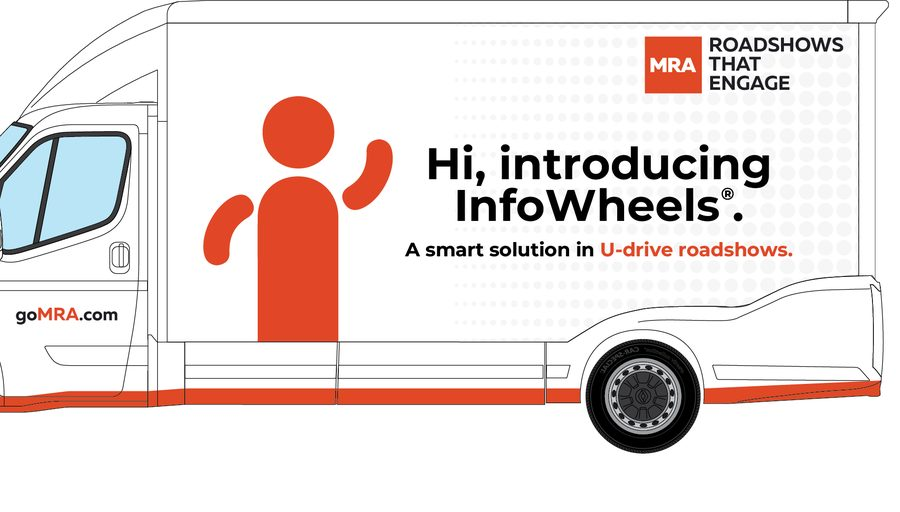
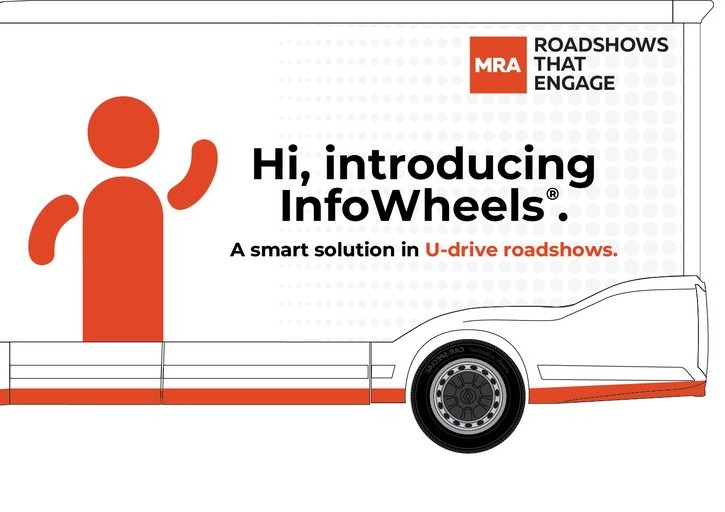
Fix two more real Builder decal bugs: mockup ghosting + wheel-arch smear/mirror
Rich caught both from his own phone testing after Rev 5.9 shipped:

1. MRA EM Summit and MRA AAM are full-vehicle wrap mockups (cab/wheels/
   windows drawn in as print-shop placement reference), not flat box-only
   graphics. Stretching the whole mockup onto just the body shell smeared
   a faint ghost of the cab/wheel reference art across the box. Cropped
   both source images down to just the box-panel region.

2. Separate bug: the wheel arch/rocker panel is molded into the same
   Shell mesh as the flat side wall but curves away underneath. The flat
   planar decal projection smeared photo content across that curve, and
   at the curve's underside some faces' normals tipped into the wrong
   projection axis entirely, producing mirrored/backwards fragments
   right at the wheel well (confirmed via backwards "SHOEBOX" text on
   the Lexcare decal, exactly matching Rich's circled screenshot). Real
   vehicle wraps don't wrap into the wheel well either, so the bottom
   ~22% of the panel's own height now always uses the plain, non-mirrored
   side formula pinned to the image's bottom edge, while the flat wall
   above still gets the full image, uncropped.

Verified on all 4 stock graphics, both the main panel and the wheel-arch
area specifically, before shipping.

diff --git a/builder/index.html b/builder/index.html
@@ -76,7 +76,7 @@ input[type=color].on{box-shadow:0 0 0 2px var(--orange)}
     <button id="linkBtnTop" class="btn-outline">Save &amp; Share</button>
     <a id="quoteBtn" class="btn-solid" href="mailto:rmiller@gomra.com?subject=InfoWheels%20quote%20request" target="_blank" rel="noopener">Request a Quote</a>
   </div>
-  <span class="rev" id="devRev" style="display:none">Rev 5.9 · fixed the recurring diagonal line for real (root cause found), TV+mount now actually visible</span>
+  <span class="rev" id="devRev" style="display:none">Rev 6.0 · decal graphics fixed for real: no more wheel-arch smearing/mirroring, no more full-vehicle-mockup ghosting on MRA EM Summit / MRA AAM</span>
 </header>
 <main>
   <div id="view3d">
@@ -187,8 +187,22 @@ input[type=color].on{box-shadow:0 0 0 2px var(--orange)}
     fixed a real bug in the TV + mount: it wasn't a toggle problem (the show/hide logic was always correct) — the
     TV/mount/frame parts were positioned behind the interior wall's finished surface, inside the wall cavity,
     completely hidden by the (correctly opaque) wall panel from every normal camera angle. Pulled the assembly
-    forward so it sits proud of the wall like an actual surface-mounted TV. This dev note is hidden from customers
-    by default — append <code>?dev=1</code> to the URL to see it.</p>
+    forward so it sits proud of the wall like an actual surface-mounted TV. <b>Rev 6.0</b> fixed two more real,
+    distinct graphics bugs Rich found from his own phone after Rev 5.9 shipped. First: the MRA EM Summit and
+    MRA AAM stock graphics are full-vehicle wrap MOCKUPS (they draw in the cab, wheels and windows as placement
+    reference for the print shop, same as a real wrap proof) — stretching the whole mockup onto just the body
+    shell smeared a faint ghost of that reference art across the box. Cropped both source images down to just
+    the box-panel region (verified against the real box's own front/rear edges in the artwork) so only the
+    actual graphic content applies now. Second, separate bug: the wheel arch / rocker panel is molded into the
+    same Shell mesh as the flat side wall, but curves away underneath — stretching the flat planar decal
+    projection across that curve smeared the photo content there, and right at the curve's underside some faces'
+    normals tipped into the WRONG projection axis entirely, producing mirrored/backwards fragments at the wheel
+    well (confirmed exactly from Rich's own circled screenshots — backwards "SHOEBOX" text on the Lexcare decal).
+    A real vehicle wrap doesn't wrap into the wheel-well curvature either — so the bottom ~22% of the panel's own
+    height (matched to the real wheel clearance) now always uses the plain, non-mirrored side formula pinned to
+    the image's own bottom edge, while the flat wall above it still gets the full image, unstretched and
+    uncropped. Verified on all 4 stock graphics, both the main panel and the wheel-arch area specifically, before
+    shipping. This dev note is hidden from customers by default — append <code>?dev=1</code> to the URL to see it.</p>
   </aside>
 </main>
 <script>/**
@@ -1861,12 +1875,30 @@ function ensureScanLoaded(cb){
         const bb=geo.boundingBox, pos=geo.getAttribute('position'), nrm=geo.getAttribute('normal'), n=pos.count;
         const xr=(bb.max.x-bb.min.x)||1, yr=(bb.max.y-bb.min.y)||1, zr=(bb.max.z-bb.min.z)||1;
         const uv=new Float32Array(n*2);
+        // The wheel arch / rocker panel is molded into this SAME shell mesh as the flat side wall,
+        // but it curves away underneath -- stretching the flat planar projection across that curve
+        // smears the decal's photo content there (Rich, from real screenshots: "showing you where
+        // the wheels are... you don't wrap it like this"), and right at the underside of the curve
+        // some faces tip far enough that their normal picks the WRONG projection branch entirely,
+        // producing mirrored/backwards fragments at the wheel well -- a real, distinct second bug,
+        // confirmed from his own phone screenshots, not the same issue as the full-vehicle-mockup
+        // crop fixed separately above. A real vehicle wrap doesn't wrap into the wheel-well curvature
+        // either -- it stays on the flat panel. So the bottom ~22% of the panel's own height (matched
+        // to the real wheel/arch clearance) always uses the plain non-mirrored side formula with V
+        // pinned to the image's own bottom edge -- one clean, undistorted trim strip -- while the flat
+        // wall above it still gets the FULL image, just renormalized so nothing is cropped off it.
+        const ARCH=.22;
         for(let vi=0; vi<n; vi++){
           const nx=nrm.getX(vi), ny=nrm.getY(vi), nz=nrm.getZ(vi);
           const ax=Math.abs(nx), ay=Math.abs(ny), az=Math.abs(nz);
+          const yFrac=(pos.getY(vi)-bb.min.y)/yr;
           let u,v;
-          if(ax>=ay && ax>=az){                     // side-facing (left/right) -- plane is Z,Y
-            u=1-(pos.getZ(vi)-bb.min.z)/zr; v=(pos.getY(vi)-bb.min.y)/yr;
+          if(p.key==='shell' && yFrac<ARCH){
+            u=1-(pos.getZ(vi)-bb.min.z)/zr; v=0;
+            if(nx<0) u=1-u;
+          } else if(ax>=ay && ax>=az){                // side-facing (left/right) -- plane is Z,Y
+            u=1-(pos.getZ(vi)-bb.min.z)/zr;
+            v=p.key==='shell' ? Math.max(0,(yFrac-ARCH)/(1-ARCH)) : (pos.getY(vi)-bb.min.y)/yr;
             if(nx<0) u=1-u;                          // left side faces -X: mirror so text still reads L-to-R
           } else if(ay>=ax && ay>=az){                // top/bottom-facing (roof, awning canopy) -- plane is X,Z
             u=(pos.getX(vi)-bb.min.x)/xr; v=1-(pos.getZ(vi)-bb.min.z)/zr;
